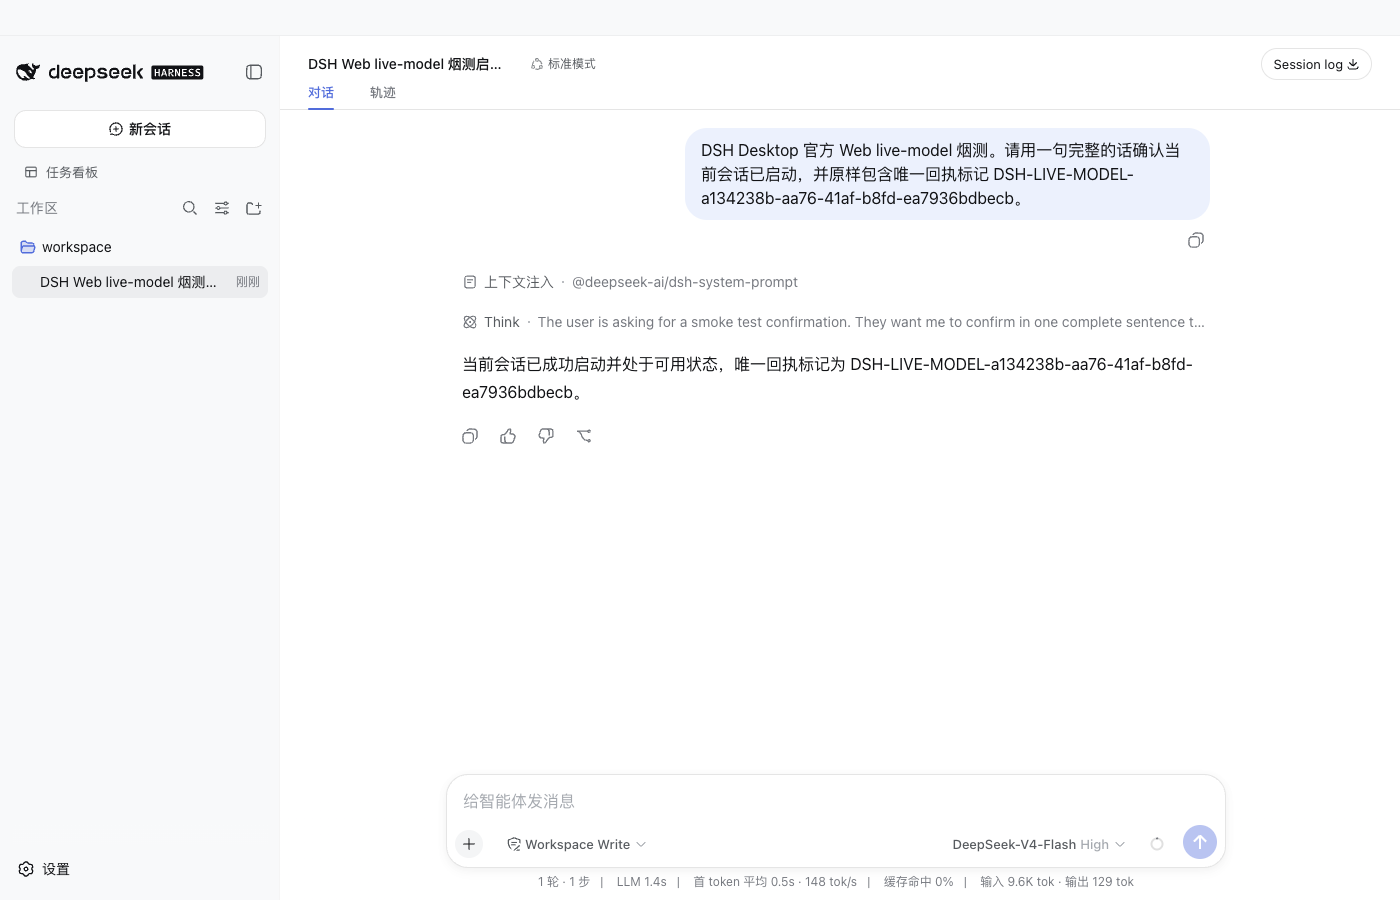
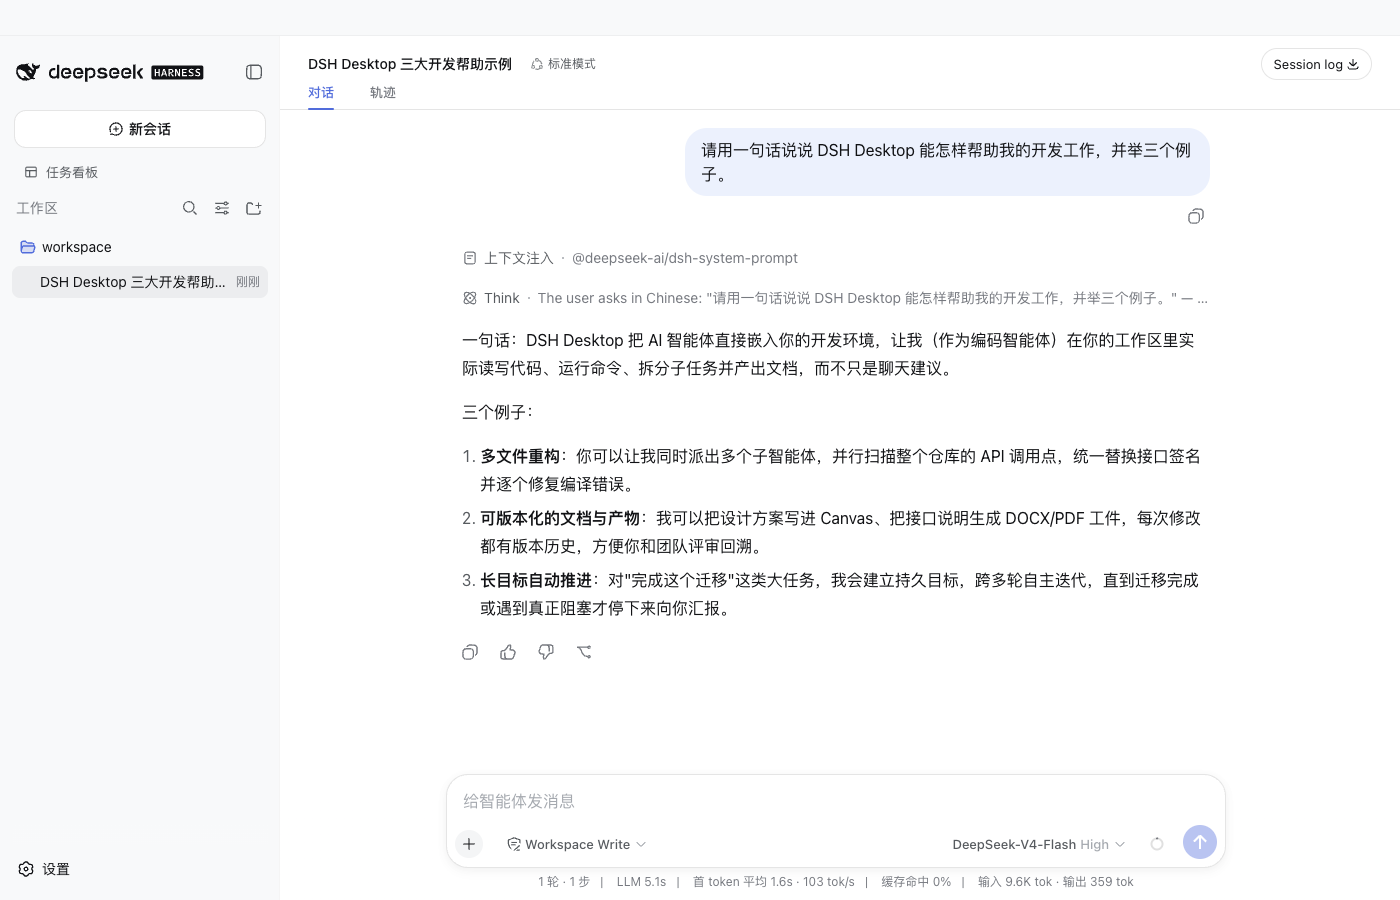
docs: replace smoke screenshot with product conversation

diff --git a/README.en.md b/README.en.md
@@ -79,7 +79,7 @@ If you only want to download a mature desktop client today, the anywhere-labs pr
 
 ![Official DSH Web Session](docs/images/readme/dsh-official-web-session-loopback.png)
 
-This screenshot comes from a real DeepSeek-V4-Flash smoke in the current packaged macOS arm64 Electron app. Acceptance reads official `session.history` directly and requires a non-empty `assistant/message`, `source.kind=model`, `provider=deepseek-official`, a unique receipt marker, and `turn/end(completed)` in the same turn. The key is injected only into the temporary process and is written to neither the Profile nor the screenshot. Because the current App is still an unsigned directory build, this development smoke does not replace a release receipt bound to a formally signed artifact.
+This screenshot comes from a normal user conversation with real DeepSeek-V4-Flash in the current packaged macOS arm64 Electron app. The showcase flow still verifies a non-empty `assistant/message`, `source.kind=model`, `provider=deepseek-official`, and `turn/end(completed)` through official `session.history`, but does not put a test UUID in the interface; the separate release smoke still requires a unique receipt marker. The key is injected only into the temporary process and is written to neither the Profile nor the screenshot. Because the current App is still an unsigned directory build, this development check does not replace a release receipt bound to a formally signed artifact.
 
 ### Plugin market in official settings
 
